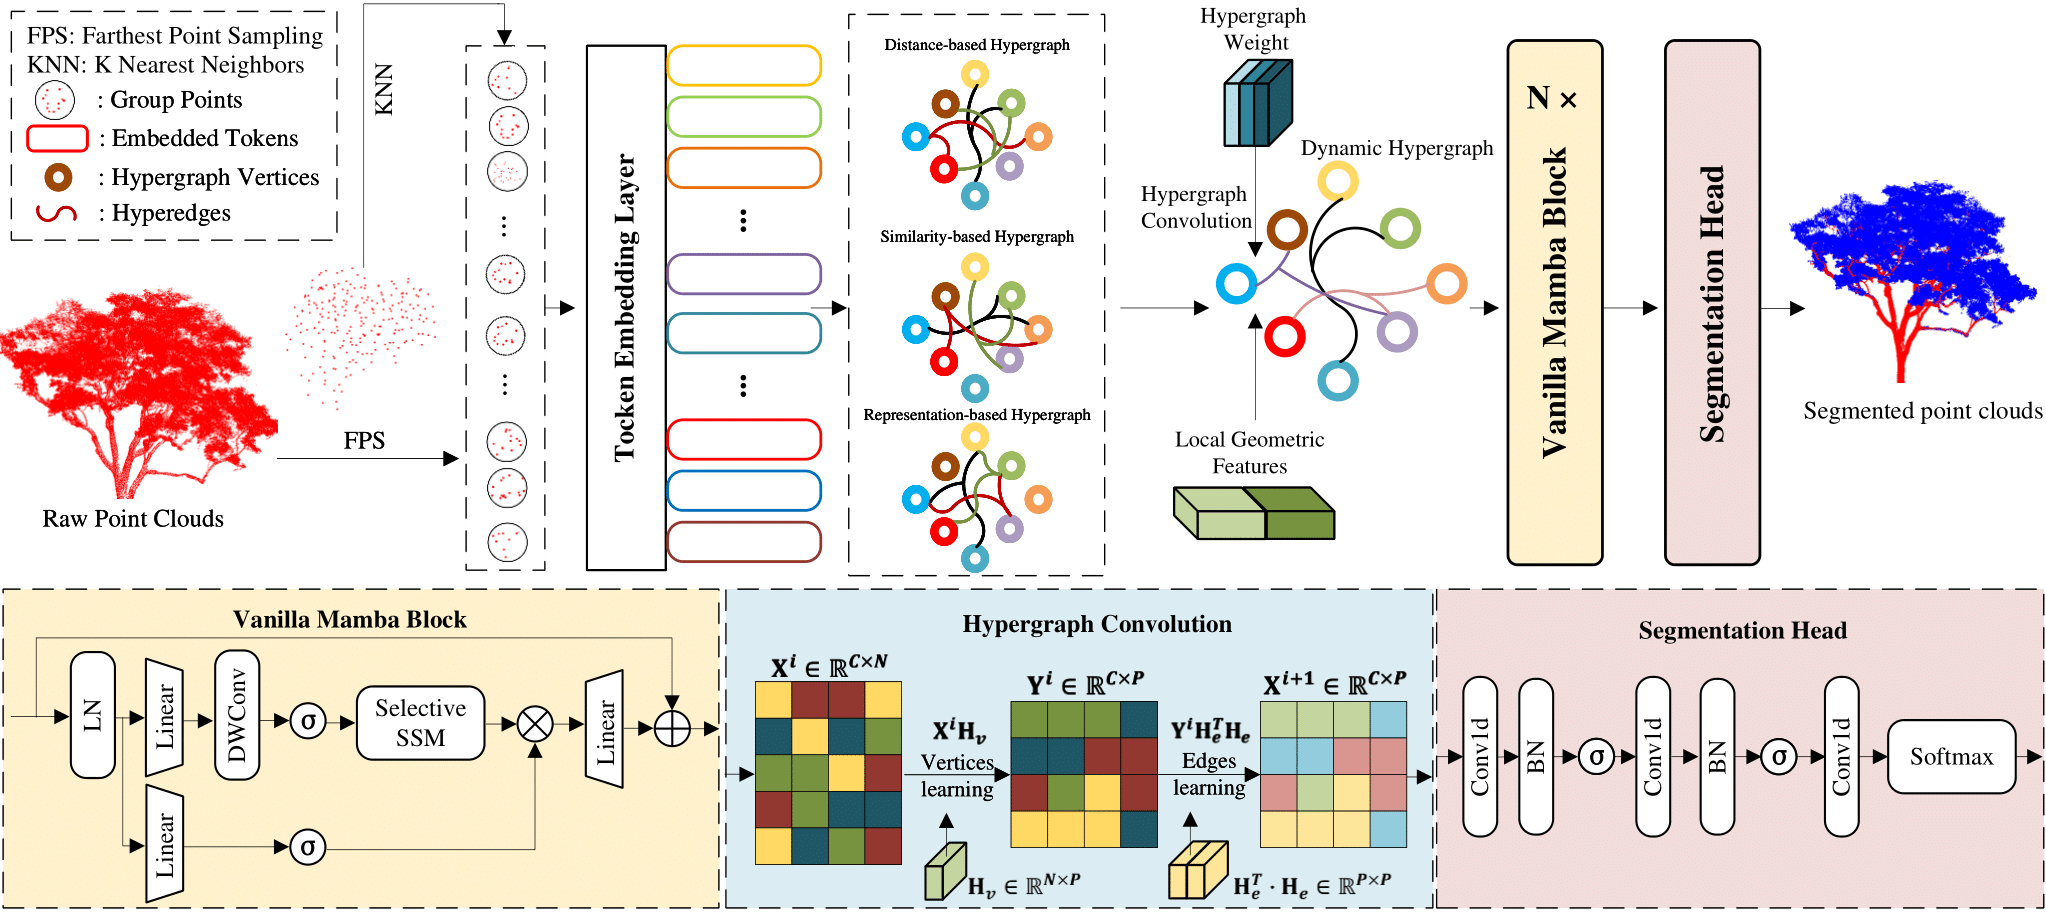
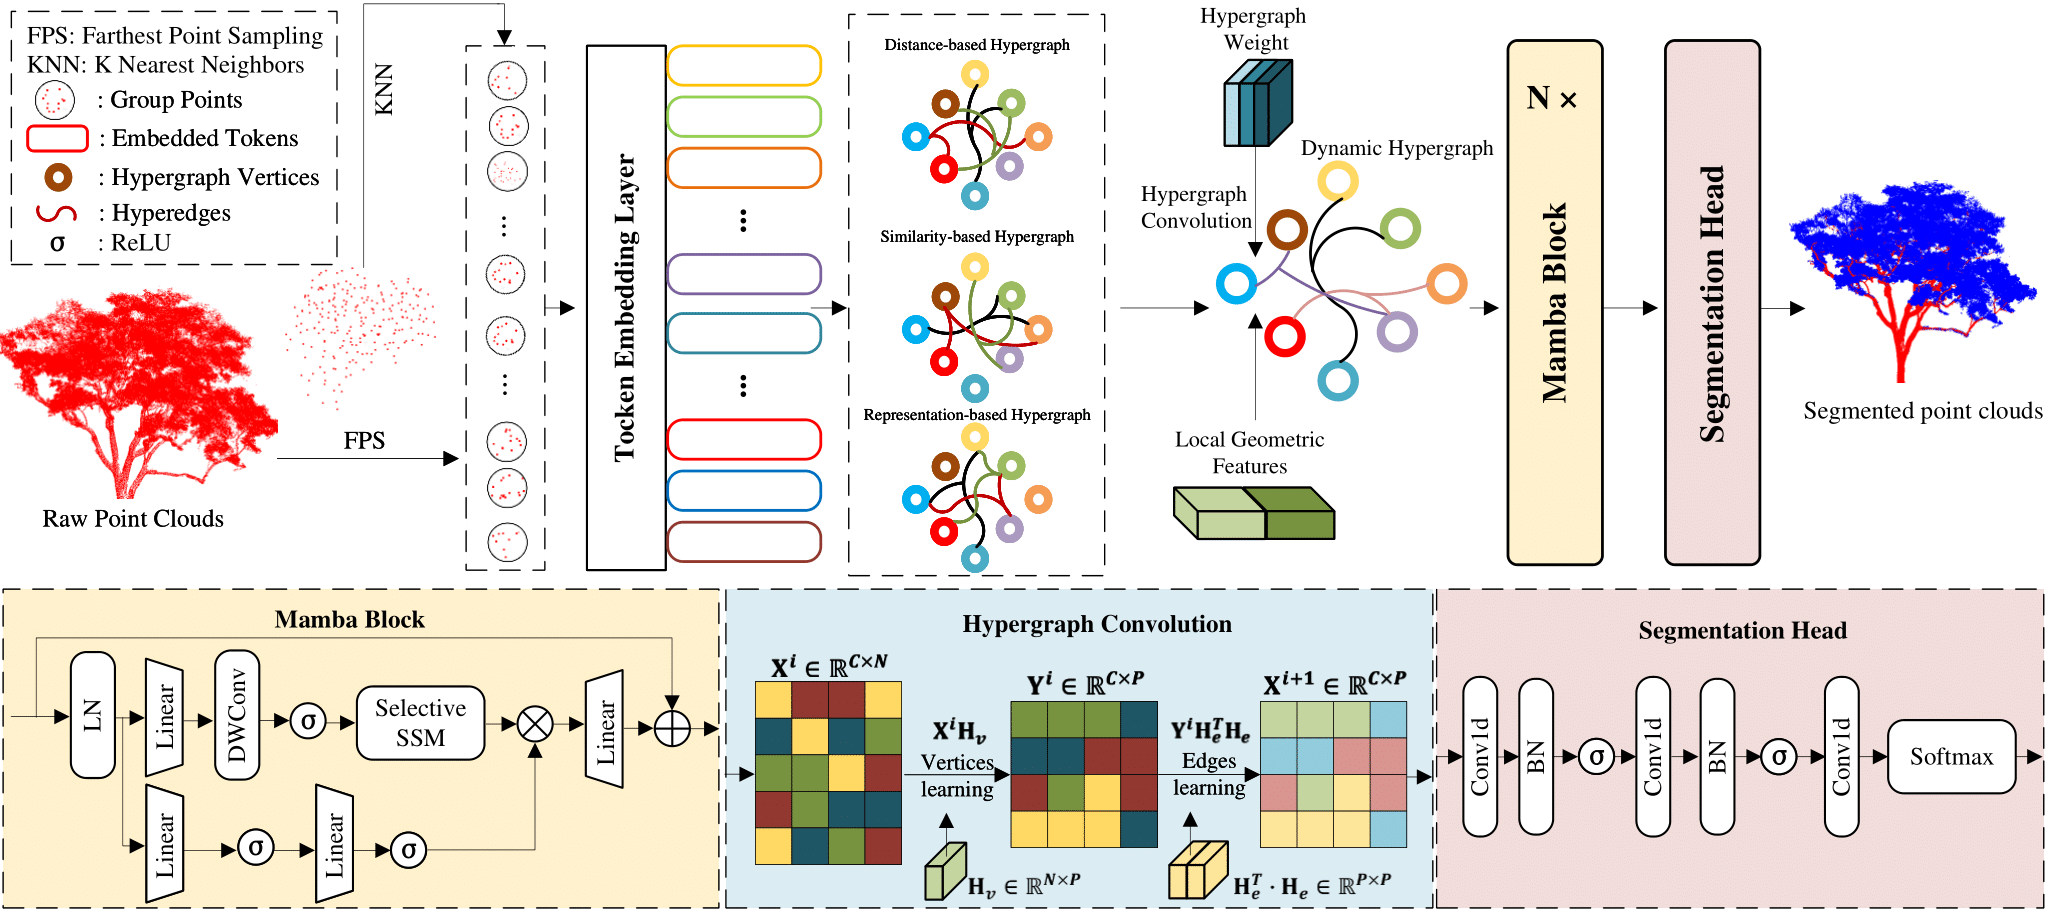
.

diff --git a/README.md b/README.md
@@ -1,7 +1,4 @@
 # Dynamic Hypergraph-guided Mamba for TLS Point Cloud Foliage Separation (TGRS-2025)
-
-Brief introduction about the project background, research goals, and significance.
-
 ---
 
 ## Abstract
